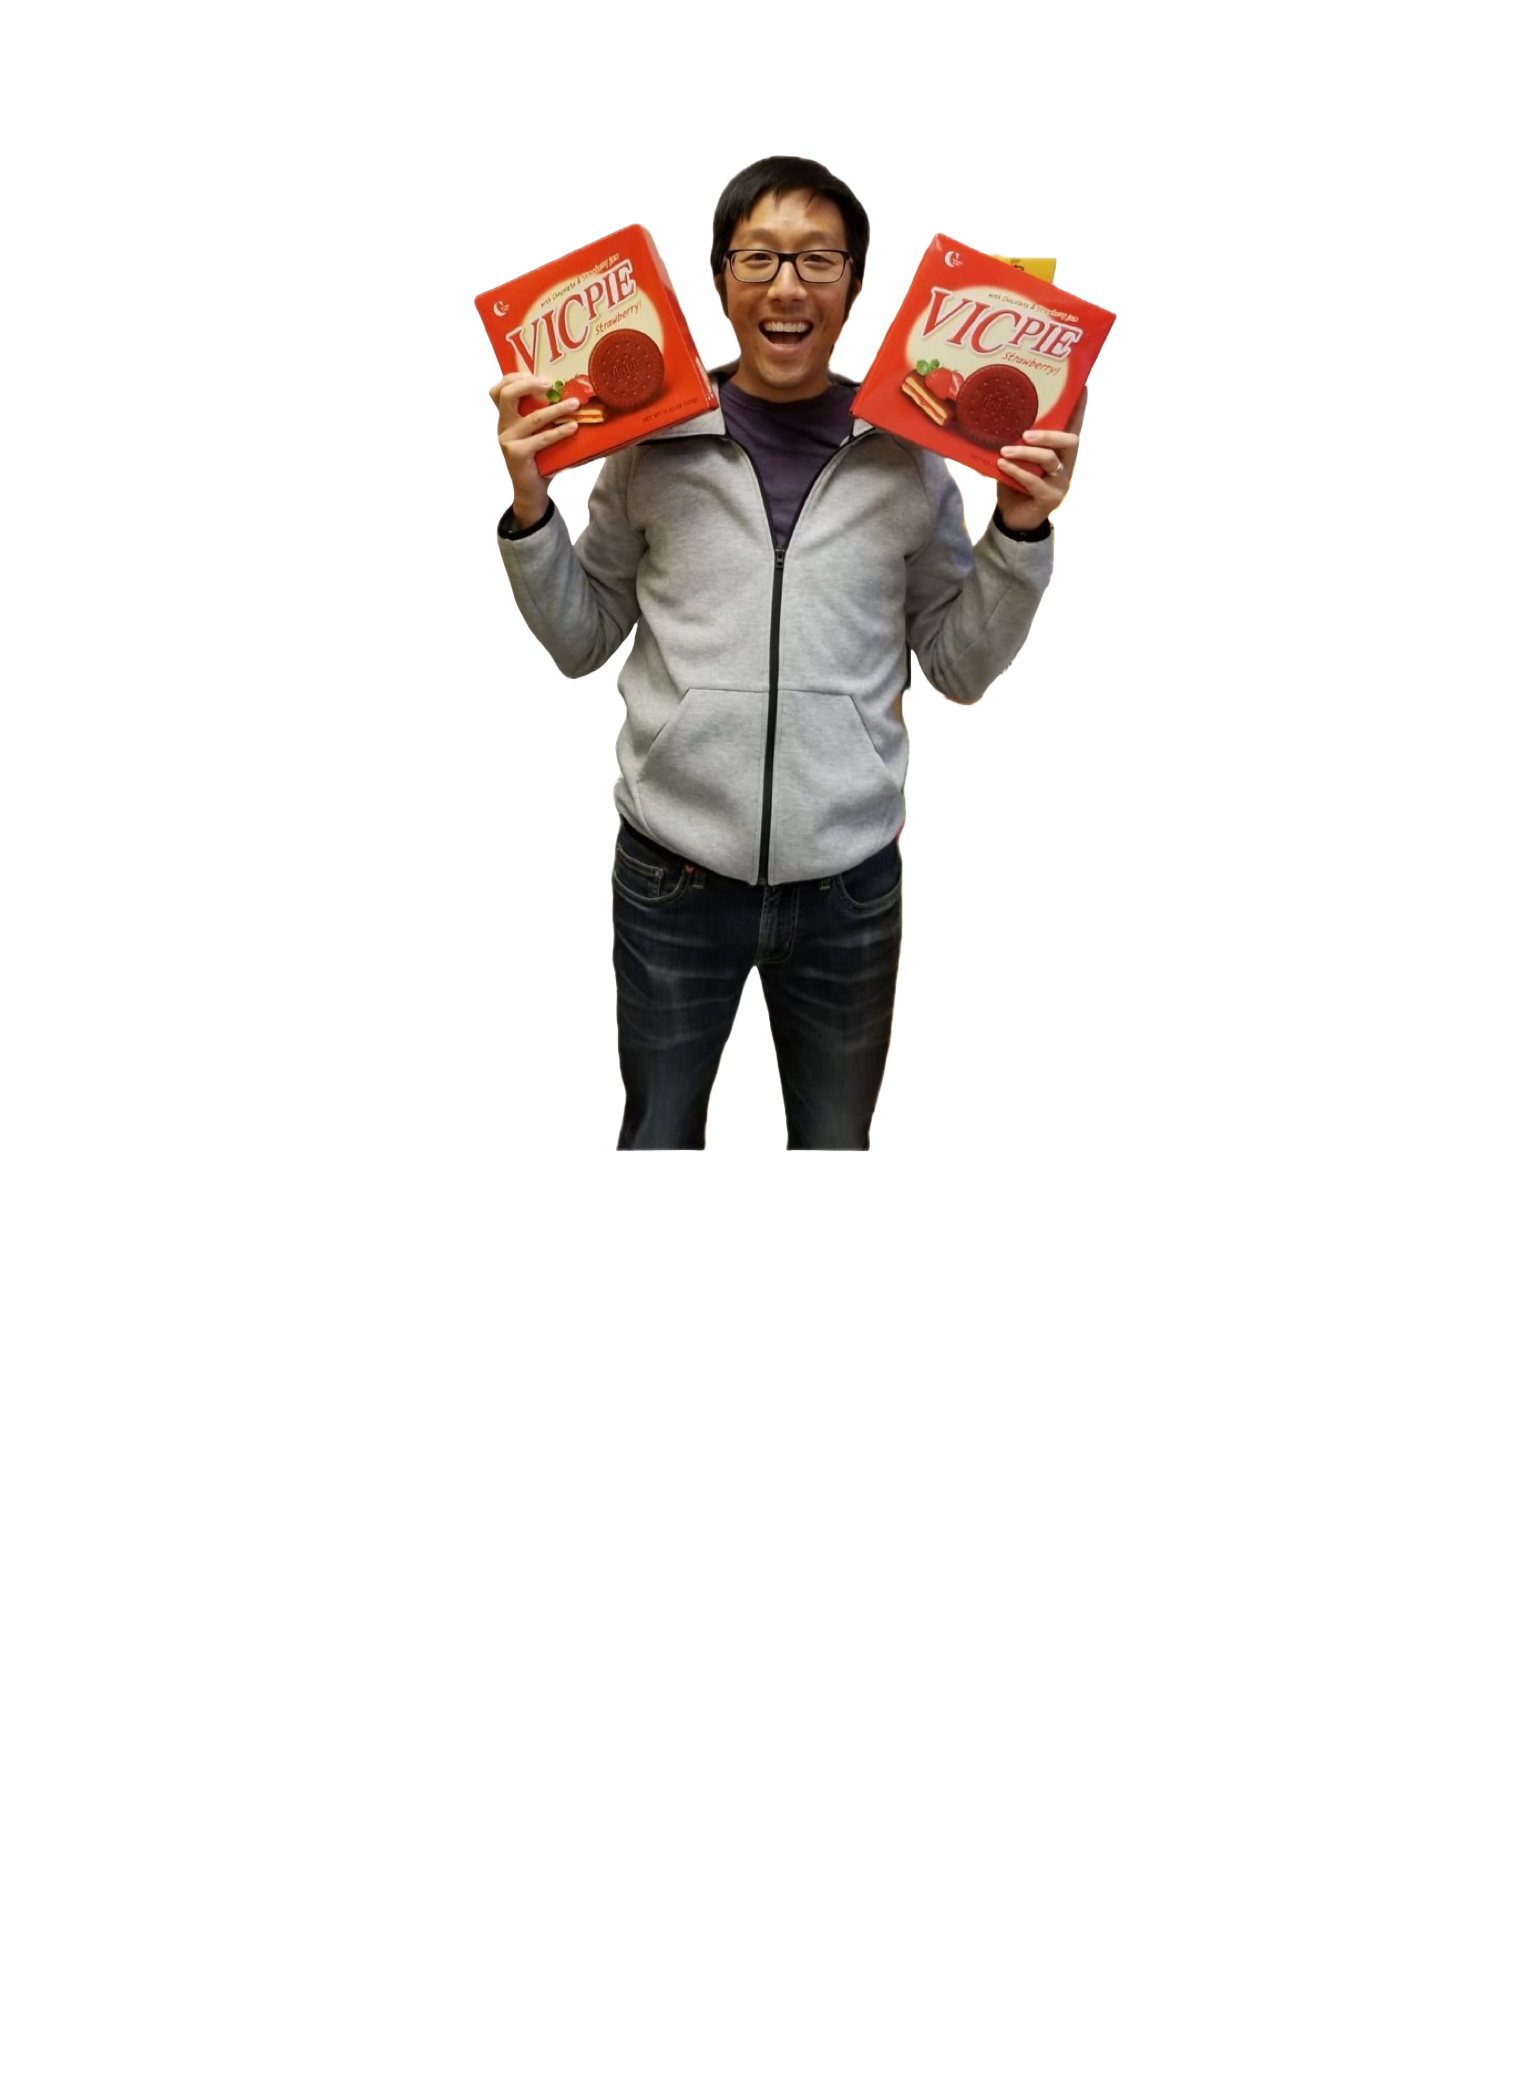
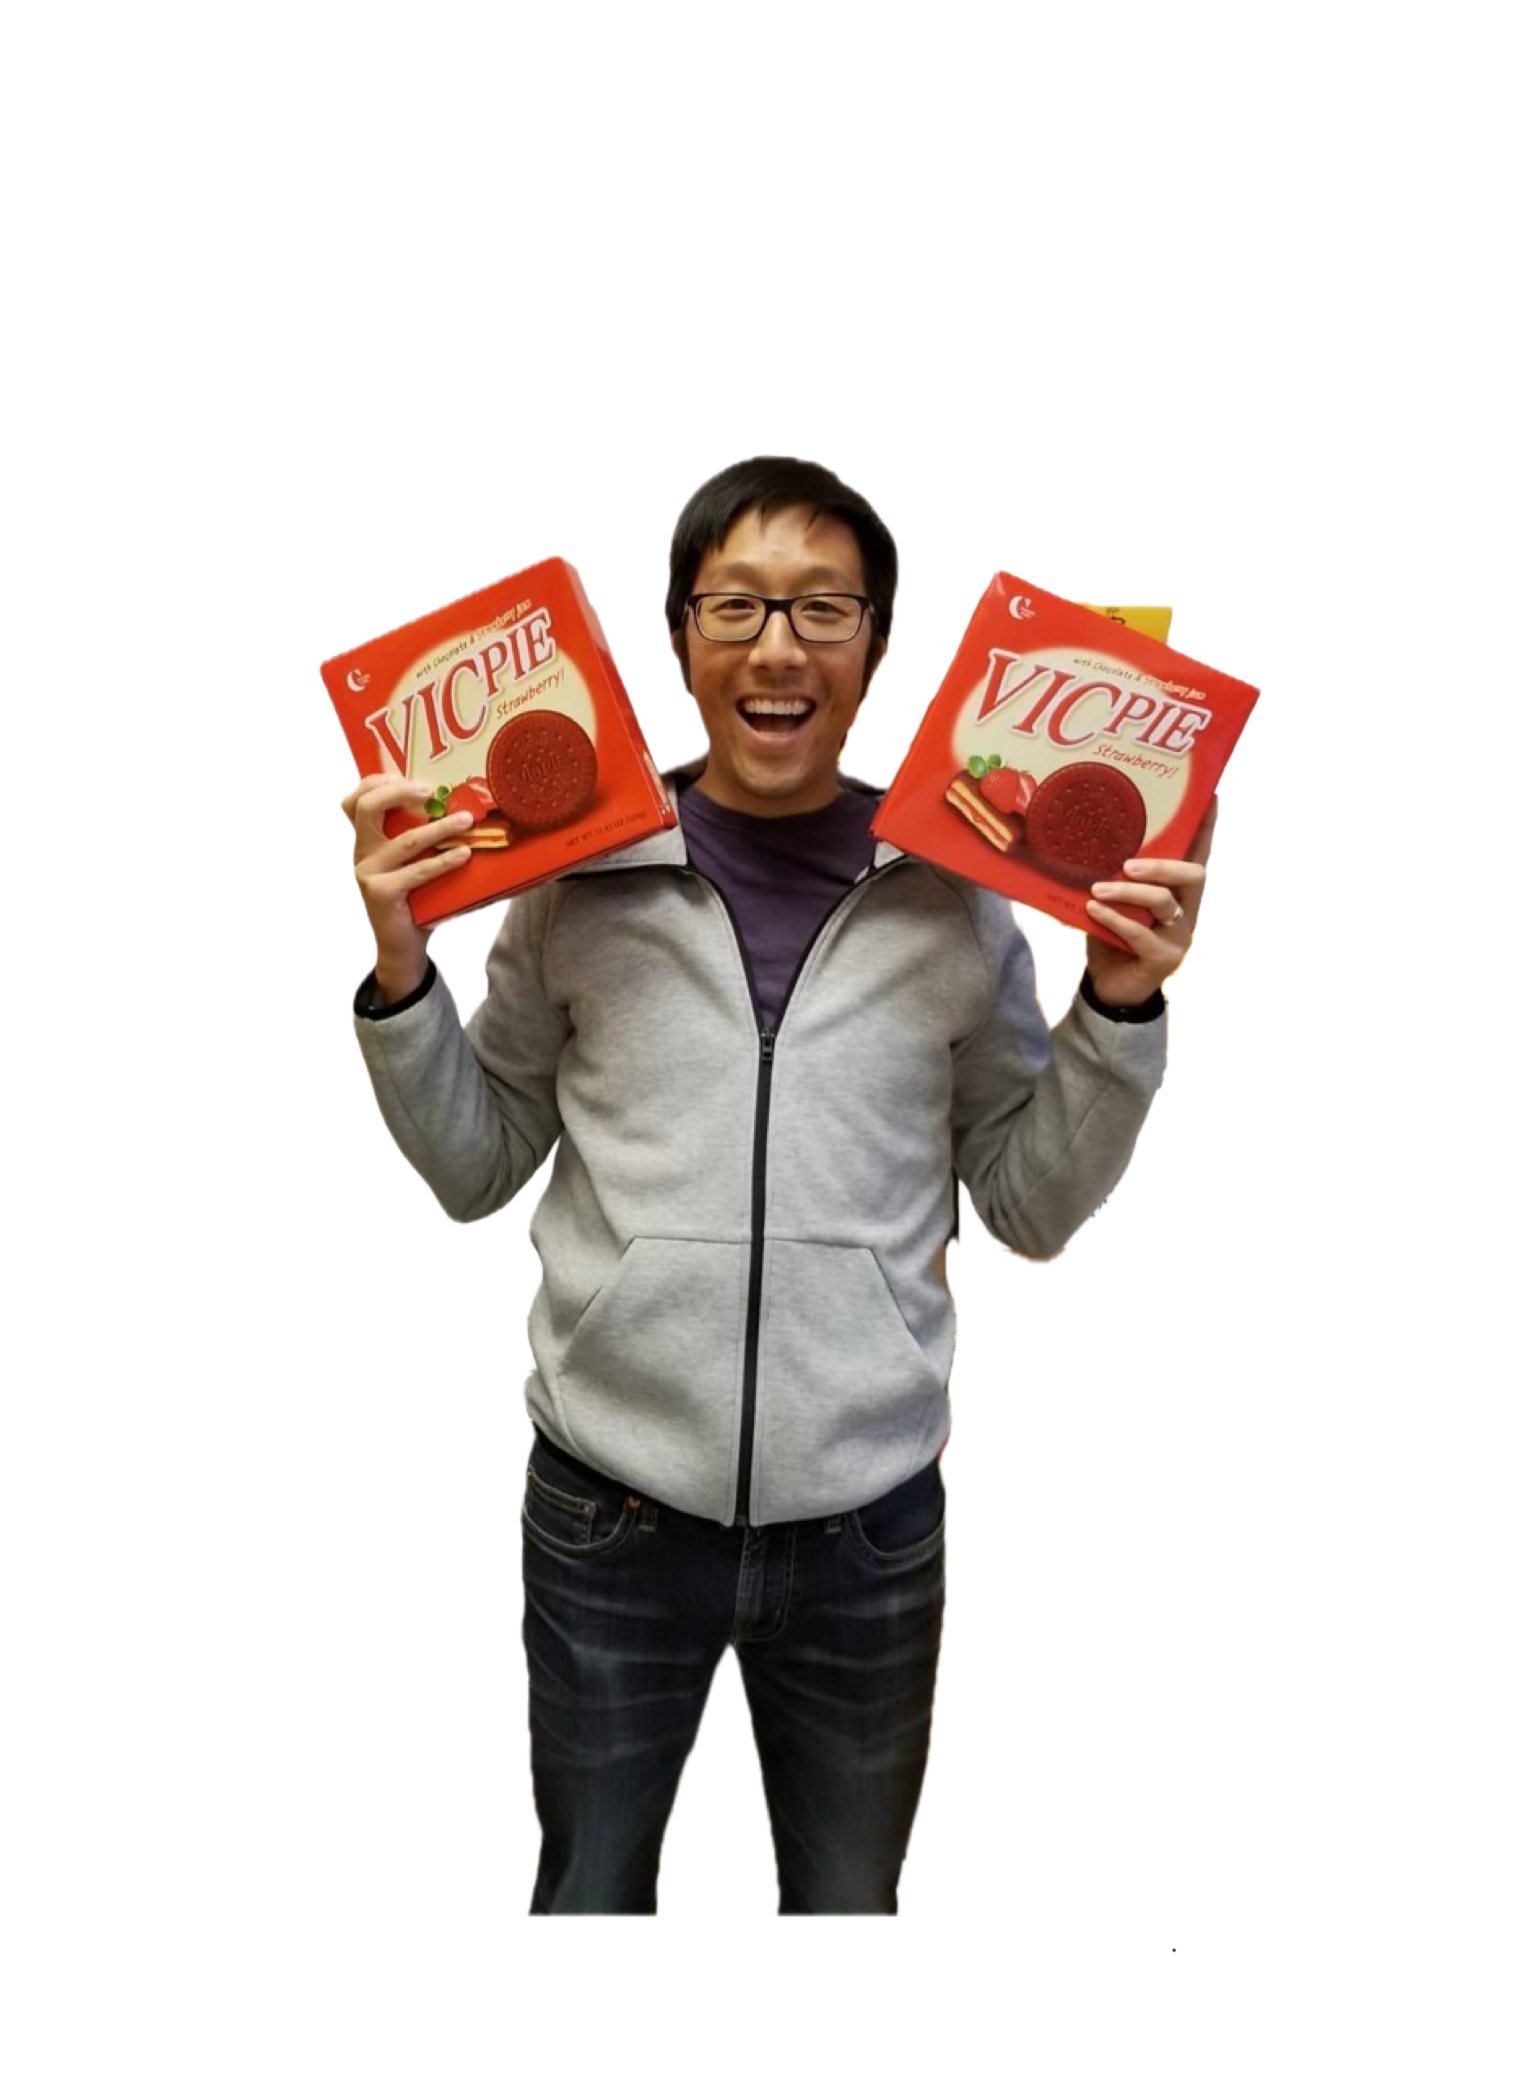
replaced Vic.png to make contestant pics more evenly spaced

Changed region(s): [[0.1875, 0.0624, 0.8125, 0.9366]]

diff --git a/style.css b/style.css
@@ -83,7 +83,7 @@ body.teams .gameboard-header {
 
 .teams-container .contestant-1 {
     left: 21%;
-    top: 4%;
+    top: -22%;
     max-height: 100%;
     transform: translate(-50%, 0);
 }
@@ -245,6 +245,53 @@ body.gameboard .gameboard-header {
 .gameboard-header h1 {
     margin: 0;
     padding: 0.25em 0;
+}
+
+.header-contestants {
+    position: absolute;
+    bottom: 0;
+    left: 0.5rem;
+    display: flex;
+    justify-content: flex-start;
+    align-items: flex-end;
+    gap: 0.5rem;
+    padding: 0 0 0.25rem;
+    z-index: 1;
+}
+
+.header-contestant-wrap {
+    display: flex;
+    flex-direction: column;
+    align-items: center;
+}
+
+.gameboard-header .header-contestant {
+    height: 4rem;
+    width: auto;
+    object-fit: contain;
+    display: block;
+}
+
+.gameboard-header .header-contestant-wrap:first-child .header-contestant {
+    height: 6rem;
+    margin-top: 1.5rem;
+}
+
+.header-scoreboard {
+    margin-top: 0.25rem;
+    min-width: 4rem;
+    padding: 0.25rem 0.5rem;
+    background-color: #fff;
+    color: #000;
+    font-family: Arial, Helvetica, sans-serif;
+    font-size: 14px;
+    font-weight: bold;
+    text-align: center;
+    border-radius: 4px;
+}
+
+.header-contestant-wrap:first-child .header-scoreboard {
+    margin-top: 0;
 }
 
 .round-buttons {

diff --git a/Jeopardy_gameboard.html b/Jeopardy_gameboard.html
@@ -7,6 +7,20 @@
 </head>
 <body class="gameboard">
     <header class="gameboard-header">
+        <div class="header-contestants">
+            <div class="header-contestant-wrap">
+                <img src="images/contestants/Vic.png" alt="Vic" class="header-contestant">
+                <div class="header-scoreboard">$0</div>
+            </div>
+            <div class="header-contestant-wrap">
+                <img src="images/contestants/Skittles.png" alt="Skittles" class="header-contestant">
+                <div class="header-scoreboard">$0</div>
+            </div>
+            <div class="header-contestant-wrap">
+                <img src="images/contestants/Maverick.png" alt="Maverick" class="header-contestant">
+                <div class="header-scoreboard">$0</div>
+            </div>
+        </div>
         <div class="round-buttons">
             <a href="/" class="round-btn">Home</a>
             <a href="/teams" class="round-btn">Teams</a>

diff --git a/Jeopardy_final.html b/Jeopardy_final.html
@@ -7,6 +7,20 @@
 </head>
 <body class="final">
     <header class="gameboard-header">
+        <div class="header-contestants">
+            <div class="header-contestant-wrap">
+                <img src="images/contestants/Vic.png" alt="Vic" class="header-contestant">
+                <div class="header-scoreboard">$0</div>
+            </div>
+            <div class="header-contestant-wrap">
+                <img src="images/contestants/Skittles.png" alt="Skittles" class="header-contestant">
+                <div class="header-scoreboard">$0</div>
+            </div>
+            <div class="header-contestant-wrap">
+                <img src="images/contestants/Maverick.png" alt="Maverick" class="header-contestant">
+                <div class="header-scoreboard">$0</div>
+            </div>
+        </div>
         <div class="round-buttons">
             <a href="/" class="round-btn">Home</a>
             <a href="/teams" class="round-btn">Teams</a>
